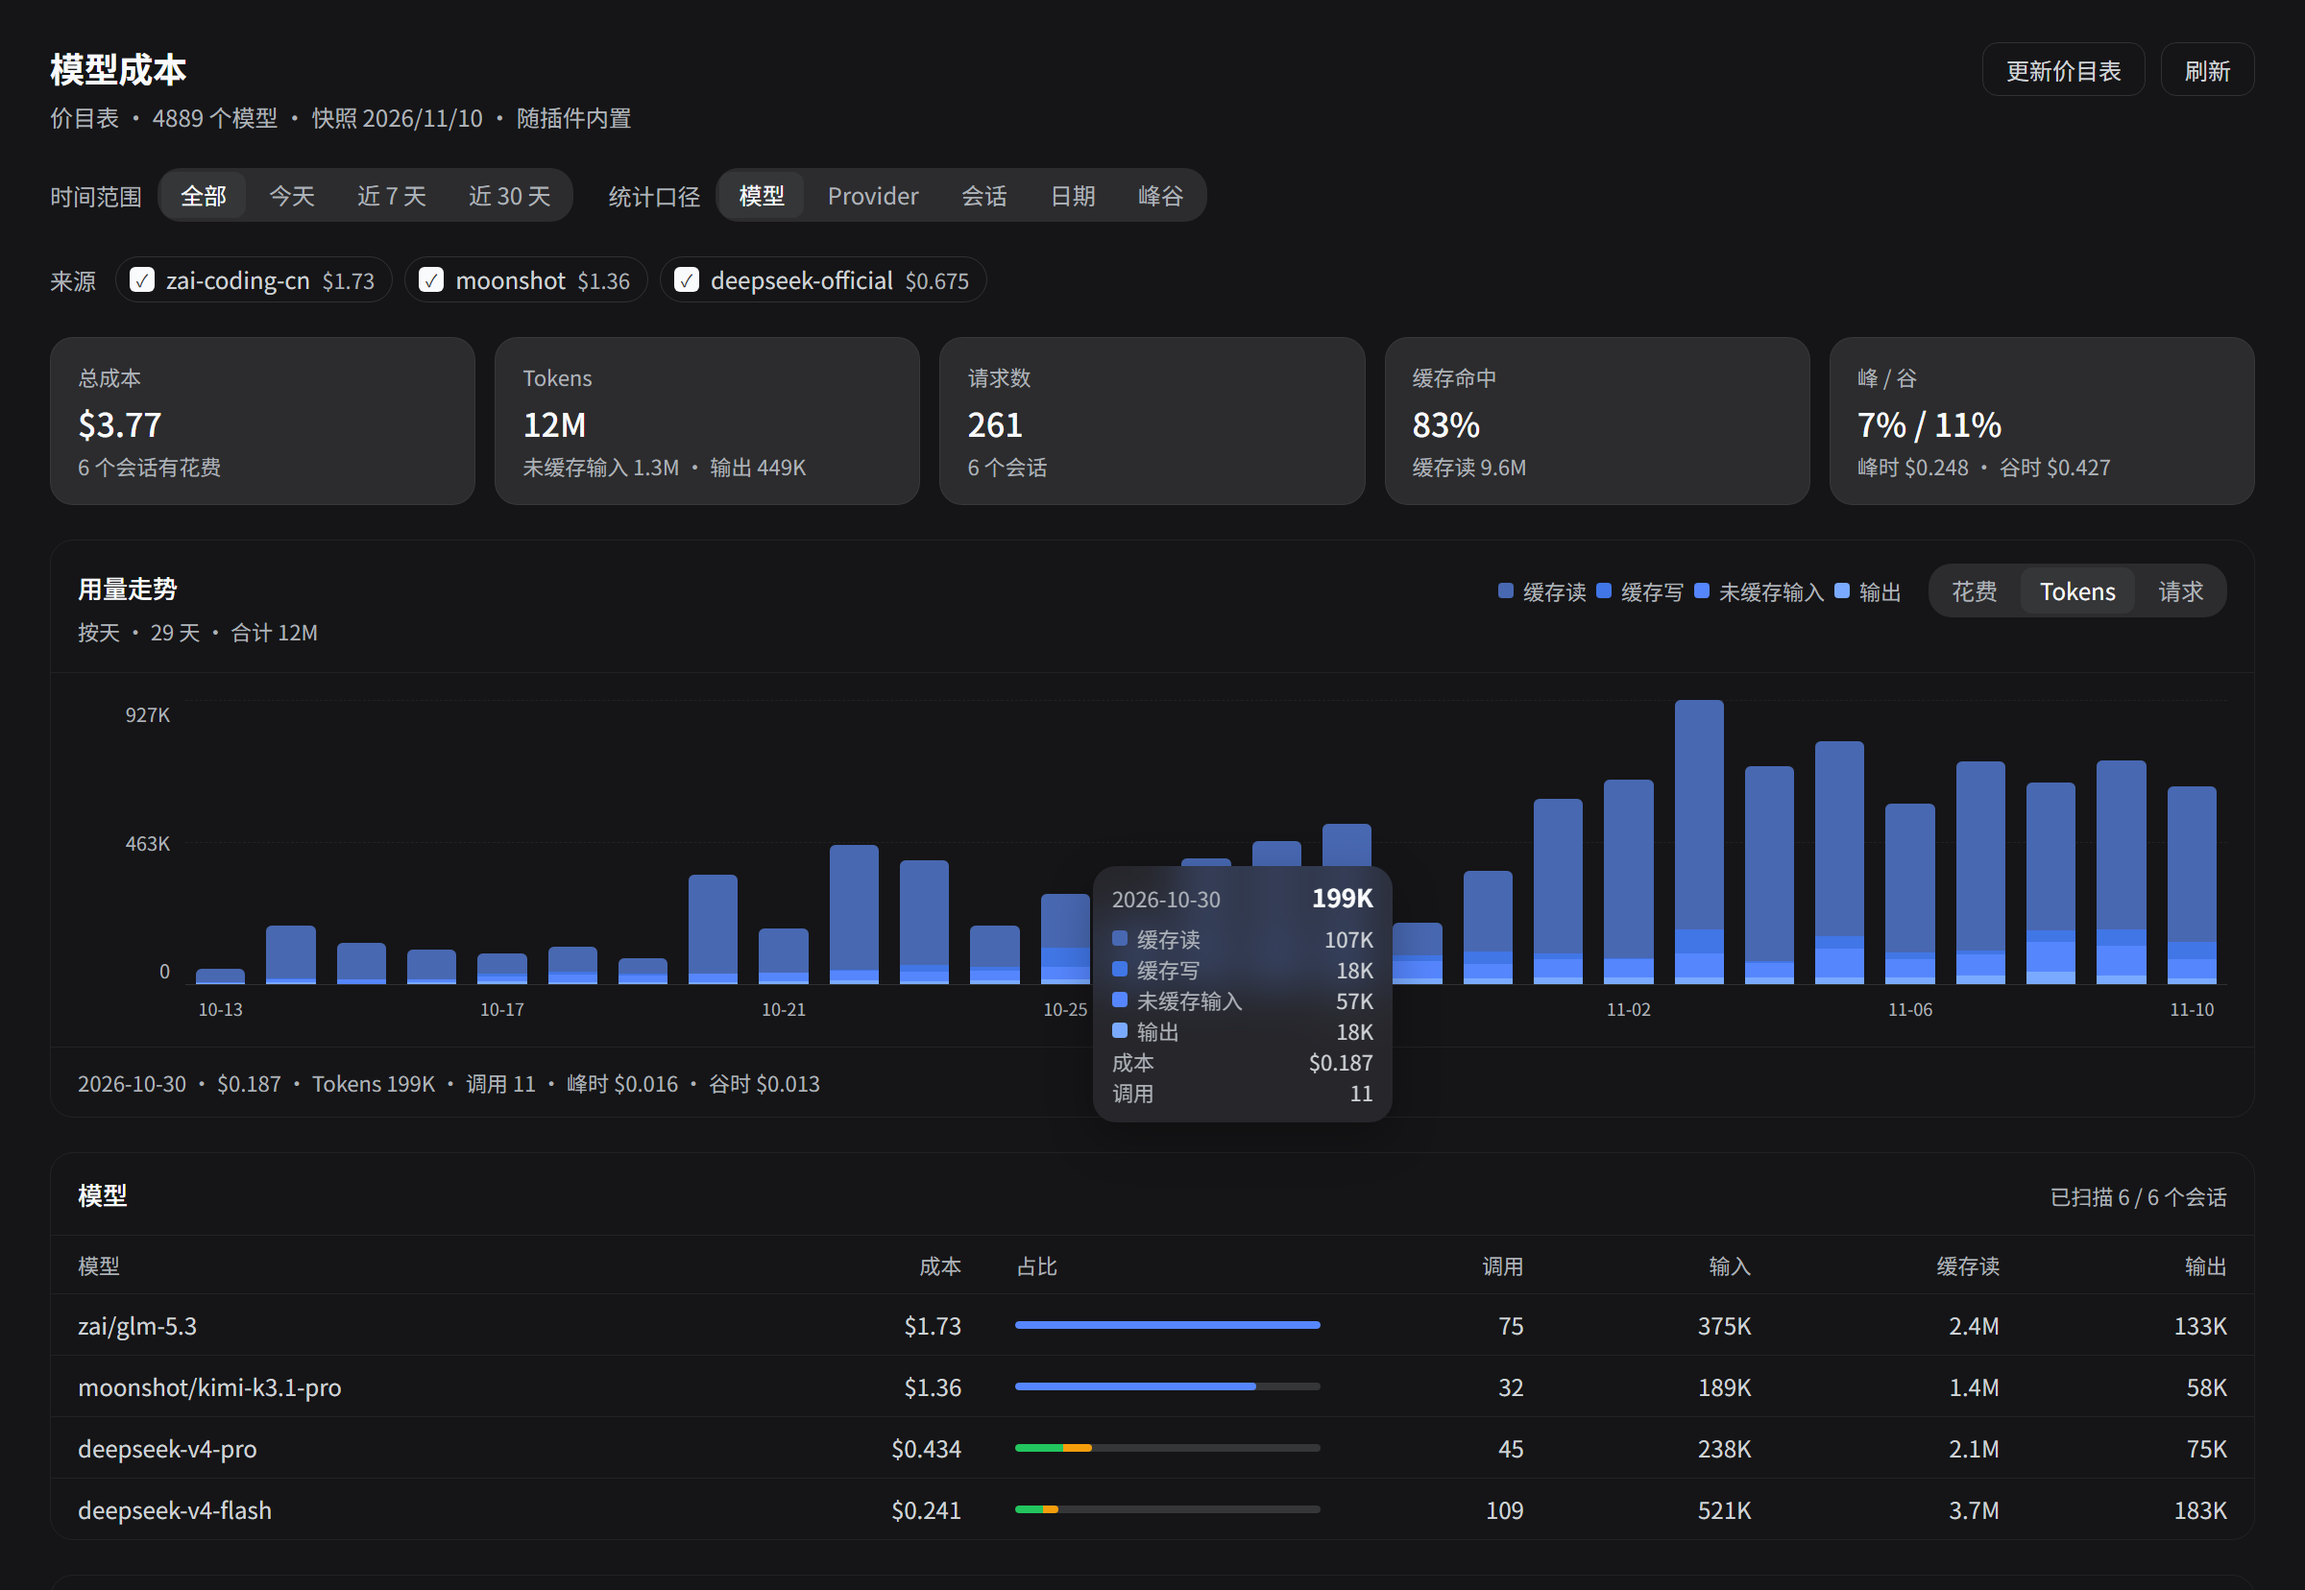
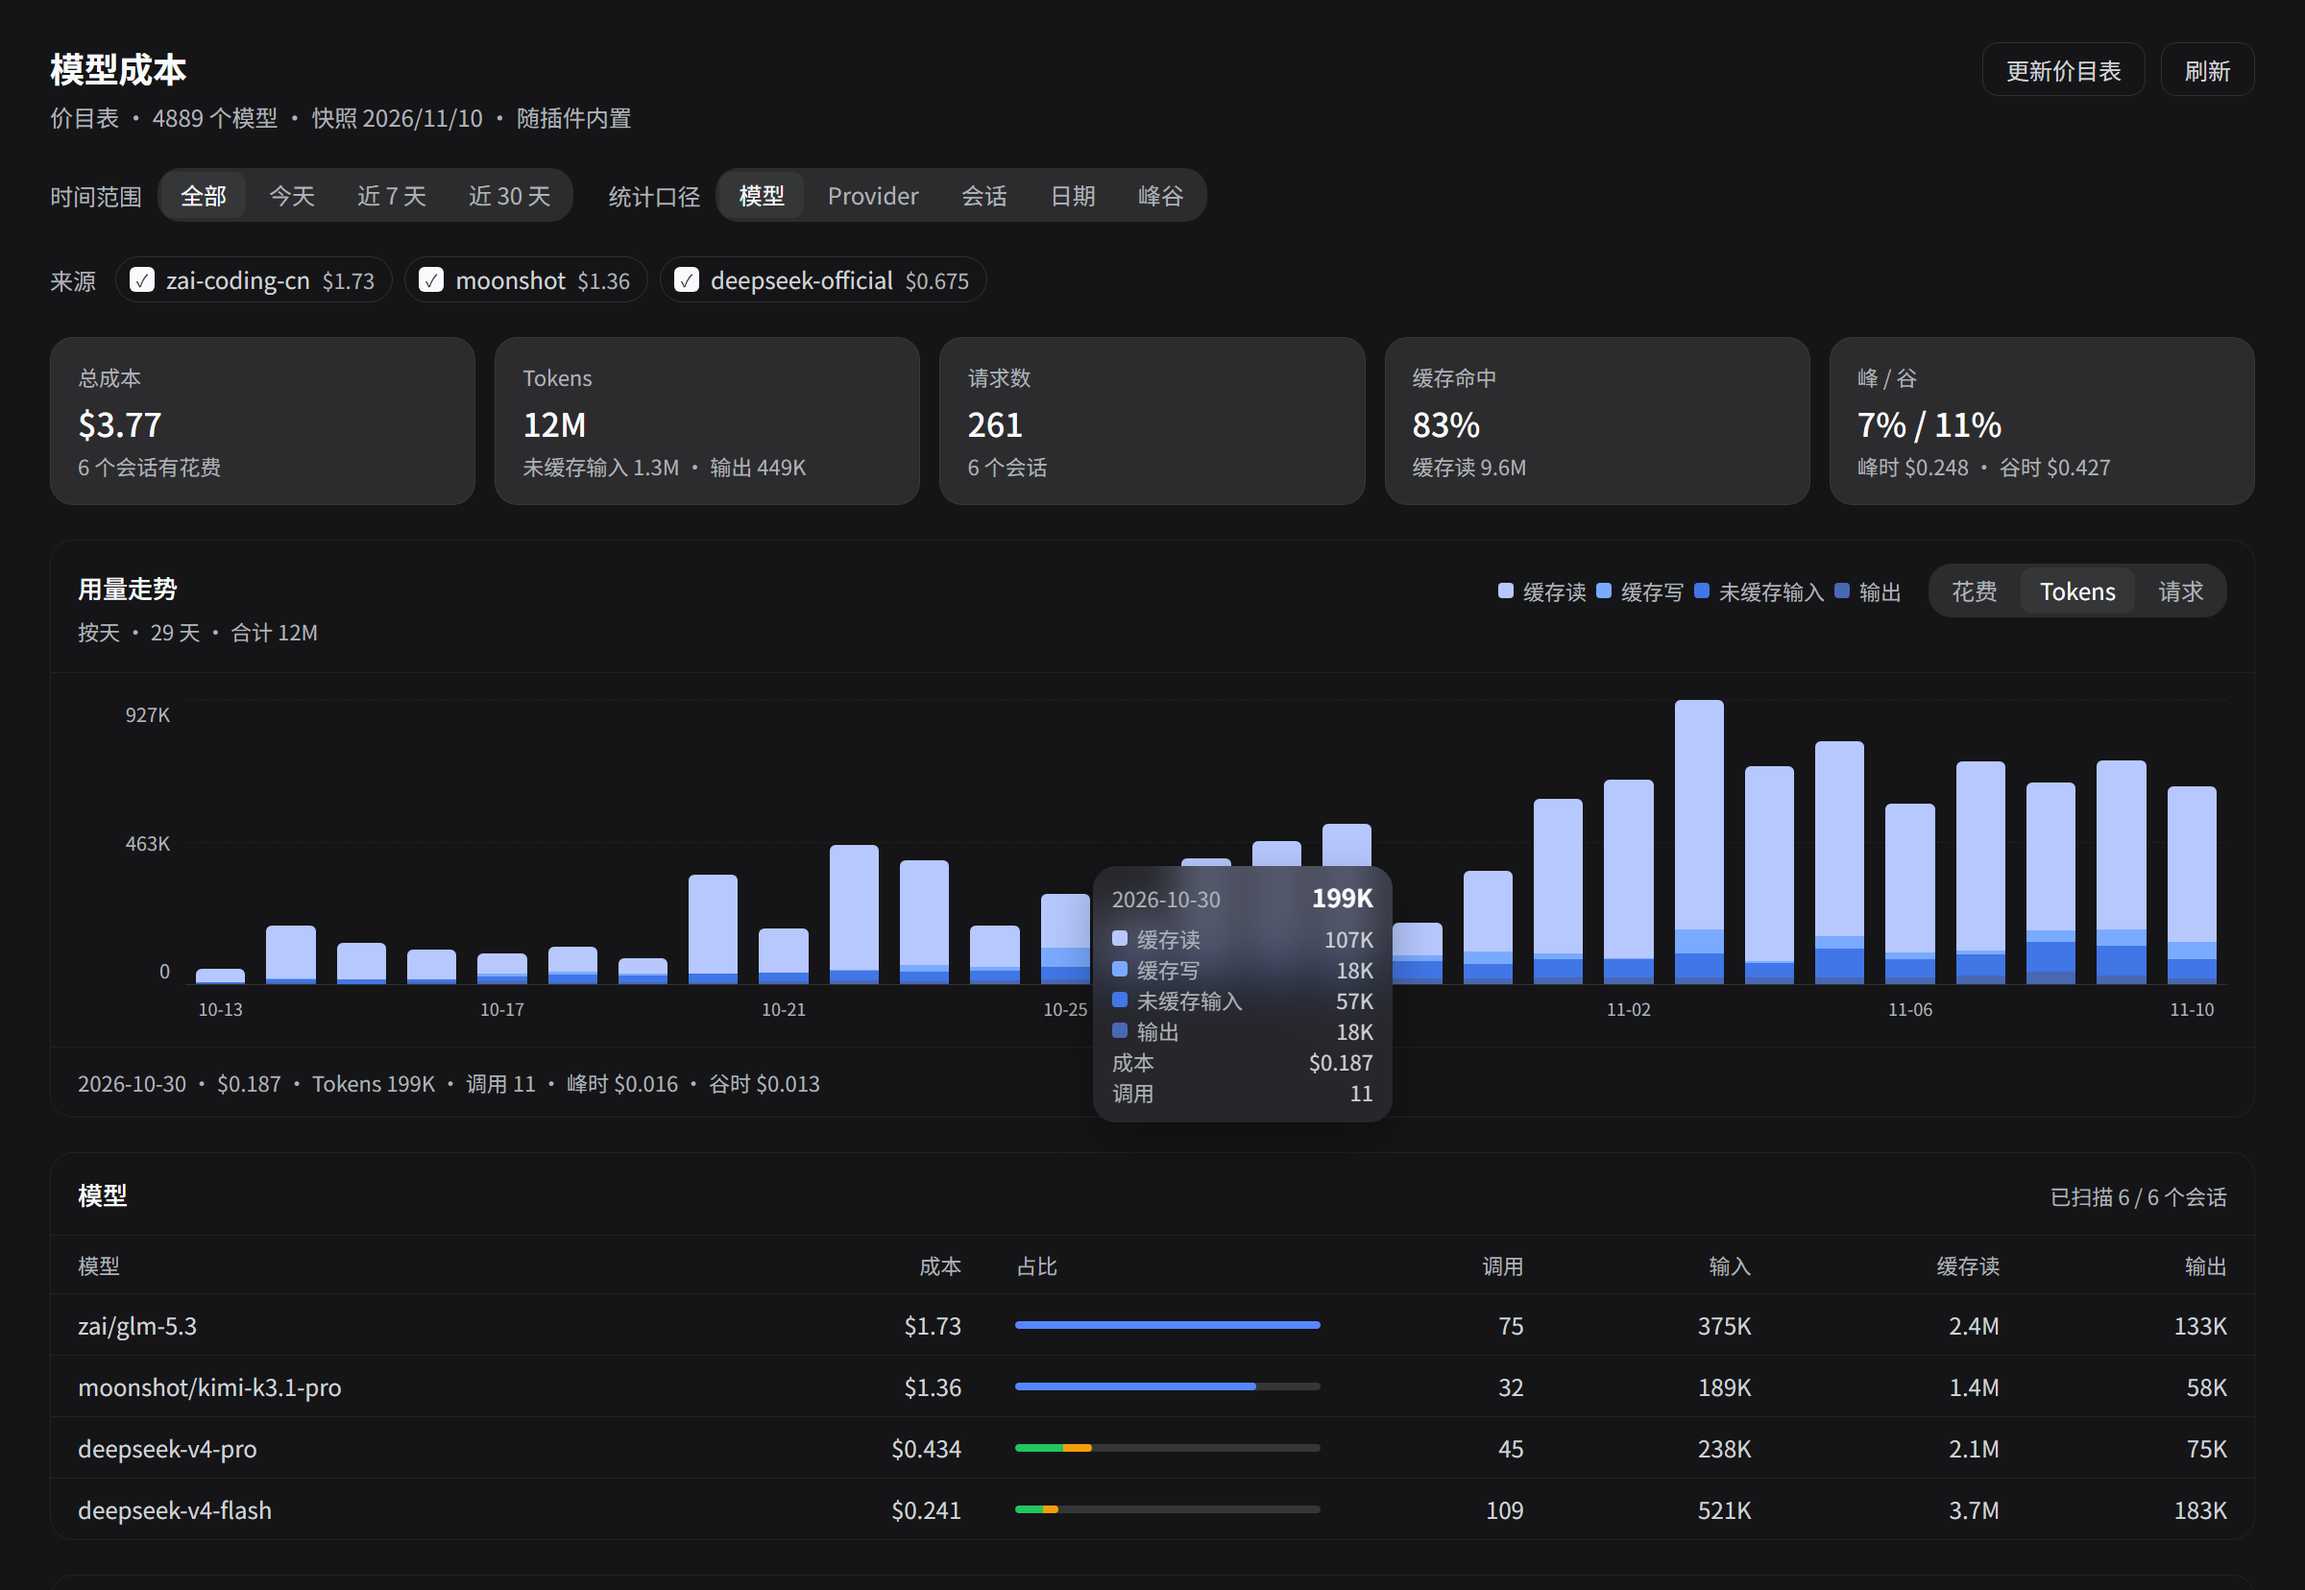
Tokens 四档蓝改为缓存读→输出由浅到深

Changed region(s): [[0.5, 0.4312, 0.9688, 0.6159], [0.0938, 0.5236, 0.5, 0.6159]]

diff --git a/client.js b/client.js
@@ -739,10 +739,10 @@ window.__ModuleLoader__.load({
 .dsh-mc-trend-solid { background: var(--dsw-static-deepseek-450, #5686fe); }
 .dsh-mc-trend-peak { background: var(--dsw-alias-state-warn-primary); }
 .dsh-mc-trend-offpeak { background: var(--dsw-alias-state-success-primary); }
-.dsh-mc-trend-cacheread { background: var(--dsw-static-deepseek-600, #4868b2); }
-.dsh-mc-trend-cachewrite { background: var(--dsw-static-deepseek-500, #4176e6); }
-.dsh-mc-trend-input { background: var(--dsw-static-deepseek-450, #5686fe); }
-.dsh-mc-trend-output { background: var(--dsw-static-deepseek-400, #7aaaff); }
+.dsh-mc-trend-cacheread { background: var(--dsw-static-deepseek-300, #b7c8fe); }
+.dsh-mc-trend-cachewrite { background: var(--dsw-static-deepseek-400, #7aaaff); }
+.dsh-mc-trend-input { background: var(--dsw-static-deepseek-500, #4176e6); }
+.dsh-mc-trend-output { background: var(--dsw-static-deepseek-600, #4868b2); }
 .dsh-mc-trend-xaxis { display: flex; margin-left: 56px; color: var(--dsw-alias-label-tertiary); font-size: 9px; line-height: 12px; }
 .dsh-mc-trend-tick { flex: 1 1 0; min-width: 0; text-align: center; white-space: nowrap; overflow: visible; }
 .dsh-mc-section.dsh-mc-trend-section { overflow: visible; }
